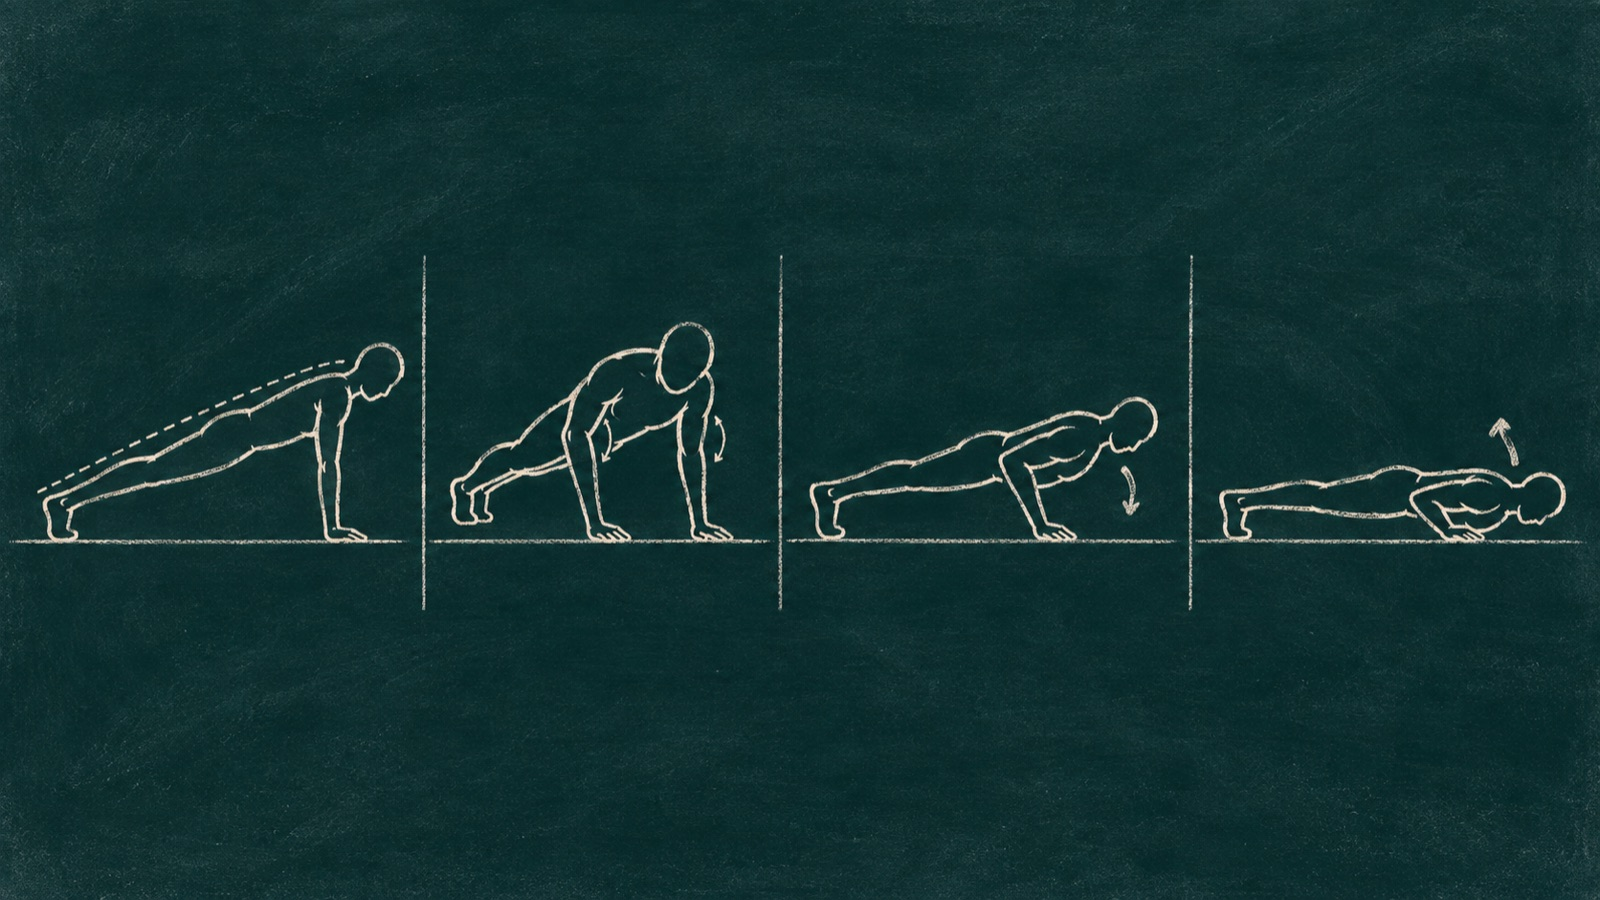
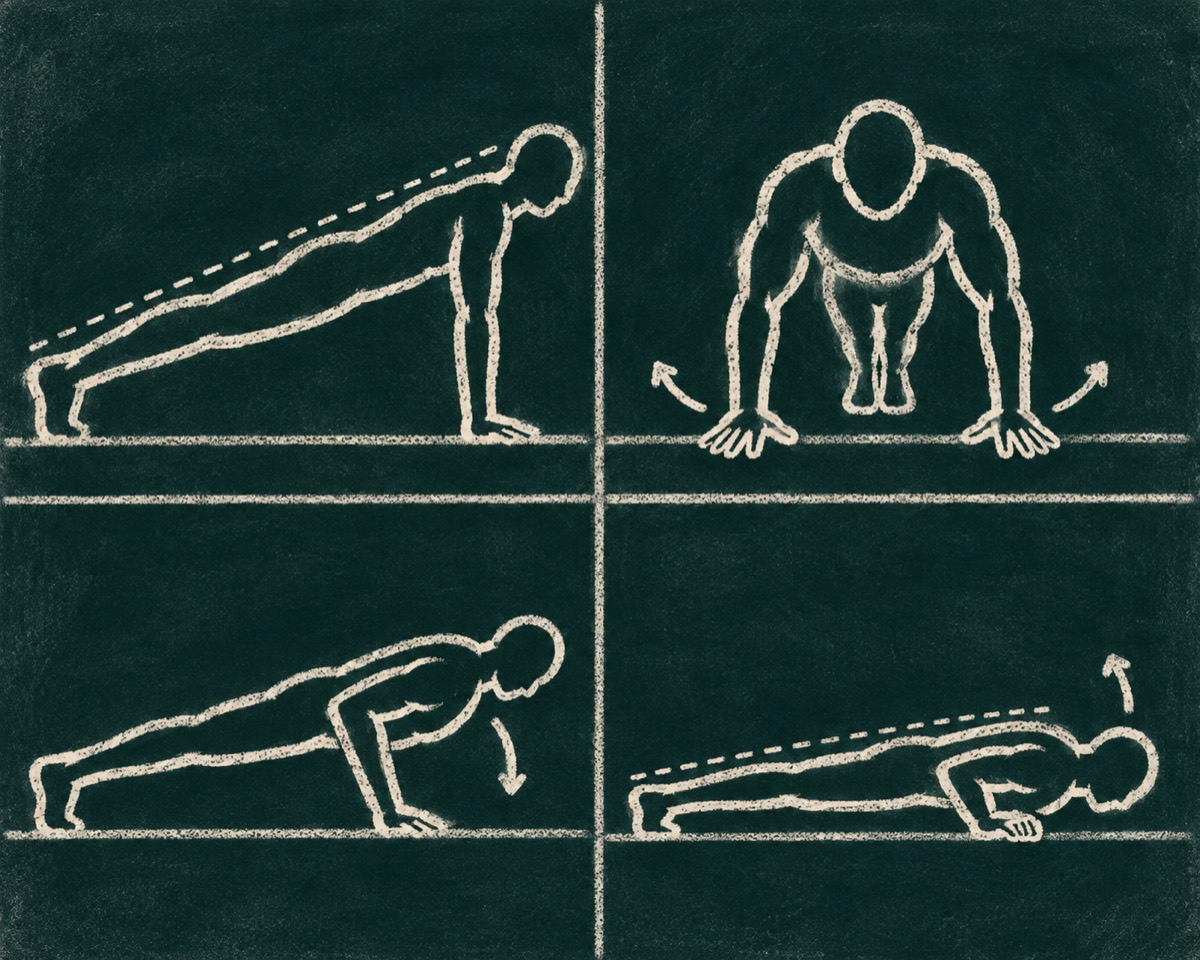
The storyboard, second pass: it shows the shoulders now
Owner's regeneration from prompt-v2. Thick chalk, panels filling the board,
and panel 2 finally doing its job: front on, fingers splayed, two arrows
curling outward at the hands. That is the screw into the floor that turns the
shoulders out — the owner's "gives a better pushup foundation" — and it was
absent from v1 entirely. Panel 4 is now the bottom of a rep rather than a
rest on the floor, with a chalk fist under the chest as the depth gauge.

It also came back 2x2 at 5:4 instead of a 16:9 strip, which deletes code: the
strip had to be rotated 90 degrees in portrait to be any use, and rotating a
near-square board makes it smaller, not bigger. The viewer now has two states
and a phone opens in the useful one — FILLED, scaled to the screen's height
and panned sideways from centre, with a tap back to the whole board. Anything
wide enough already fits it, and never engages the fill.

v1 stays archived beside it; PROMPT.md records what each pass fixed and the
two things still wrong with v2.

diff --git a/style.css b/style.css
@@ -1422,12 +1422,23 @@ body.ih-open .screen{padding-bottom:calc(224px + env(safe-area-inset-bottom))}
 .form-photo img{display:block;width:100%;height:auto;border-radius:14px}
 .form-photo-hint{position:absolute;right:10px;bottom:10px;padding:5px 10px;border-radius:999px;
   background:rgba(8,31,27,.72);color:#FAF3E8;font-family:"JetBrains Mono",monospace;font-size:9.5px;letter-spacing:.14em;text-transform:uppercase}
-#form-zoom{position:fixed;inset:0;z-index:97;background:#081F1B;display:flex;align-items:center;justify-content:center;cursor:pointer}
-#form-zoom img{max-width:100%;max-height:100%;object-fit:contain}
-/* portrait: turn the strip so it uses the long side of the screen */
-@media (orientation:portrait){
-  #form-zoom img{max-width:none;max-height:none;width:100dvh;height:auto;transform:rotate(90deg)}
-}
+#form-zoom{position:fixed;inset:0;z-index:97;background:#081F1B;display:flex;align-items:center;justify-content:center;
+  cursor:pointer;overflow:auto;-webkit-overflow-scrolling:touch}
+#form-zoom img{max-width:100%;max-height:100%;object-fit:contain;padding:8px}
+/* A 5:4 board cannot fill a 9:19.5 phone without cropping, so there are two
+   states and the phone opens in the useful one: FILLED — the board scaled to
+   the screen's height and panned sideways — with a tap to drop back to the
+   whole thing at once. On anything wide enough, fitting already fills it and
+   this never engages. */
+#form-zoom.filled{display:block}
+#form-zoom.filled img{max-width:none;max-height:none;width:auto;height:100dvh;padding:0;display:block}
+.form-zoom-hint{position:absolute;left:50%;transform:translateX(-50%);bottom:calc(env(safe-area-inset-bottom,0px) + 16px);
+  padding:6px 12px;border-radius:999px;background:rgba(8,31,27,.8);color:#FAF3E8;pointer-events:none;
+  font-family:"JetBrains Mono",monospace;font-size:9.5px;letter-spacing:.14em;text-transform:uppercase}
+/* v2 of the storyboard is a 2x2 grid at 5:4, so it fills a phone screen the
+   right way up. The v1 strip was 16:9 and had to be rotated in portrait to be
+   any use — that rule is gone with it, because rotating a near-square image
+   makes it SMALLER, not bigger. */
 .form-zoom-close{position:absolute;top:calc(env(safe-area-inset-top,0px) + 14px);right:14px;color:#FAF3E8;border-color:rgba(250,243,232,.4)}
 .form-link{background:none;border:0;padding:8px 2px 2px;margin:4px 0 0;display:block;cursor:pointer;
   flex:0 0 100%;width:100%;text-align:center;

diff --git a/app.js b/app.js
@@ -724,10 +724,30 @@ $("form-close").addEventListener("click", closeFormSheet);
 
 // The storyboard is a wide strip on a tall phone, so "full screen" means
 // turning it: the CSS rotates it in portrait. Tap anywhere to come back.
-function openFormZoom() { $("form-zoom").classList.remove("hidden"); }
+function openFormZoom() {
+  const zoom = $("form-zoom");
+  zoom.classList.remove("hidden");
+  // On a phone, fitting the whole board on screen leaves it small and banded by
+  // empty board top and bottom, so it opens FILLED — scaled to the screen's
+  // height, panned sideways — and a tap steps back to the whole thing. A screen
+  // wide enough to fit it properly opens fitted, where nothing is gained by
+  // filling.
+  const portrait = window.innerWidth / window.innerHeight < 0.9;
+  setFormZoomFill(portrait);
+  if (portrait) zoom.scrollLeft = (zoom.scrollWidth - zoom.clientWidth) / 2;
+}
+function setFormZoomFill(fill) {
+  $("form-zoom").classList.toggle("filled", fill);
+  $("form-zoom-hint").textContent = fill ? "Tap to fit · ✕ to close" : "Tap to fill · ✕ to close";
+}
 function closeFormZoom() { $("form-zoom").classList.add("hidden"); }
 $("form-photo").addEventListener("click", openFormZoom);
-$("form-zoom").addEventListener("click", closeFormZoom);
+// tapping the board toggles fit/fill; the ✕ is the way out, so a stray tap
+// while reading never throws you back to the rules
+$("form-zoom").addEventListener("click", (e) => {
+  if (e.target.id === "form-zoom-close") return closeFormZoom();
+  setFormZoomFill(!$("form-zoom").classList.contains("filled"));
+});
 
 // Escape closes the top layer first — the zoom, then the sheet.
 document.addEventListener("keydown", (e) => {

diff --git a/index.html b/index.html
@@ -673,16 +673,16 @@
     <p class="form-note">No bouncing off the floor, and no counting the ones you didn't feel.</p>
 
     <button id="form-photo" class="form-photo" aria-label="Open the full storyboard">
-      <img src="assets/pushup-form.jpg" alt="Four chalk panels: the start, the shoulders, lowering, and the bottom of a pushup" loading="lazy" decoding="async">
+      <img src="assets/pushup-form.jpg" alt="Four chalk panels: the start, the hands and shoulders from the front, lowering, and the bottom of a pushup" loading="lazy" decoding="async">
       <span class="form-photo-hint">Tap to fill the screen</span>
     </button>
   </div>
 </div>
 
-<!-- The storyboard is a wide strip and a phone is tall, so filling the screen
-     means turning it: in portrait the image is rotated to use the long side. -->
+<!-- Opens the storyboard at full screen. Tap anywhere to come back. -->
 <div id="form-zoom" class="hidden" role="dialog" aria-modal="true" aria-label="Pushup storyboard, full screen">
-  <img src="assets/pushup-form.jpg" alt="Four chalk panels: the start, the shoulders, lowering, and the bottom of a pushup">
+  <img src="assets/pushup-form.jpg" alt="Four chalk panels: the start, the hands and shoulders from the front, lowering, and the bottom of a pushup">
+  <span id="form-zoom-hint" class="form-zoom-hint"></span>
   <button id="form-zoom-close" class="form-zoom-close" aria-label="Close">✕</button>
 </div>
 

diff --git a/sw.js b/sw.js
@@ -1,6 +1,6 @@
 // Rope & Rung service worker — network-first with cache fallback.
 // Fresh when online, fully functional offline, instant shell loads.
-const CACHE = "pushpact-v11";  // v11: what counts as one — the rep, drawn and solved
+const CACHE = "pushpact-v12";  // v12: the v2 storyboard, filled on a phone
                                // (v4 shipped it in navy with a gold glint, matching
                                //  neither the palette nor the launch screen)
 const SHELL = [
